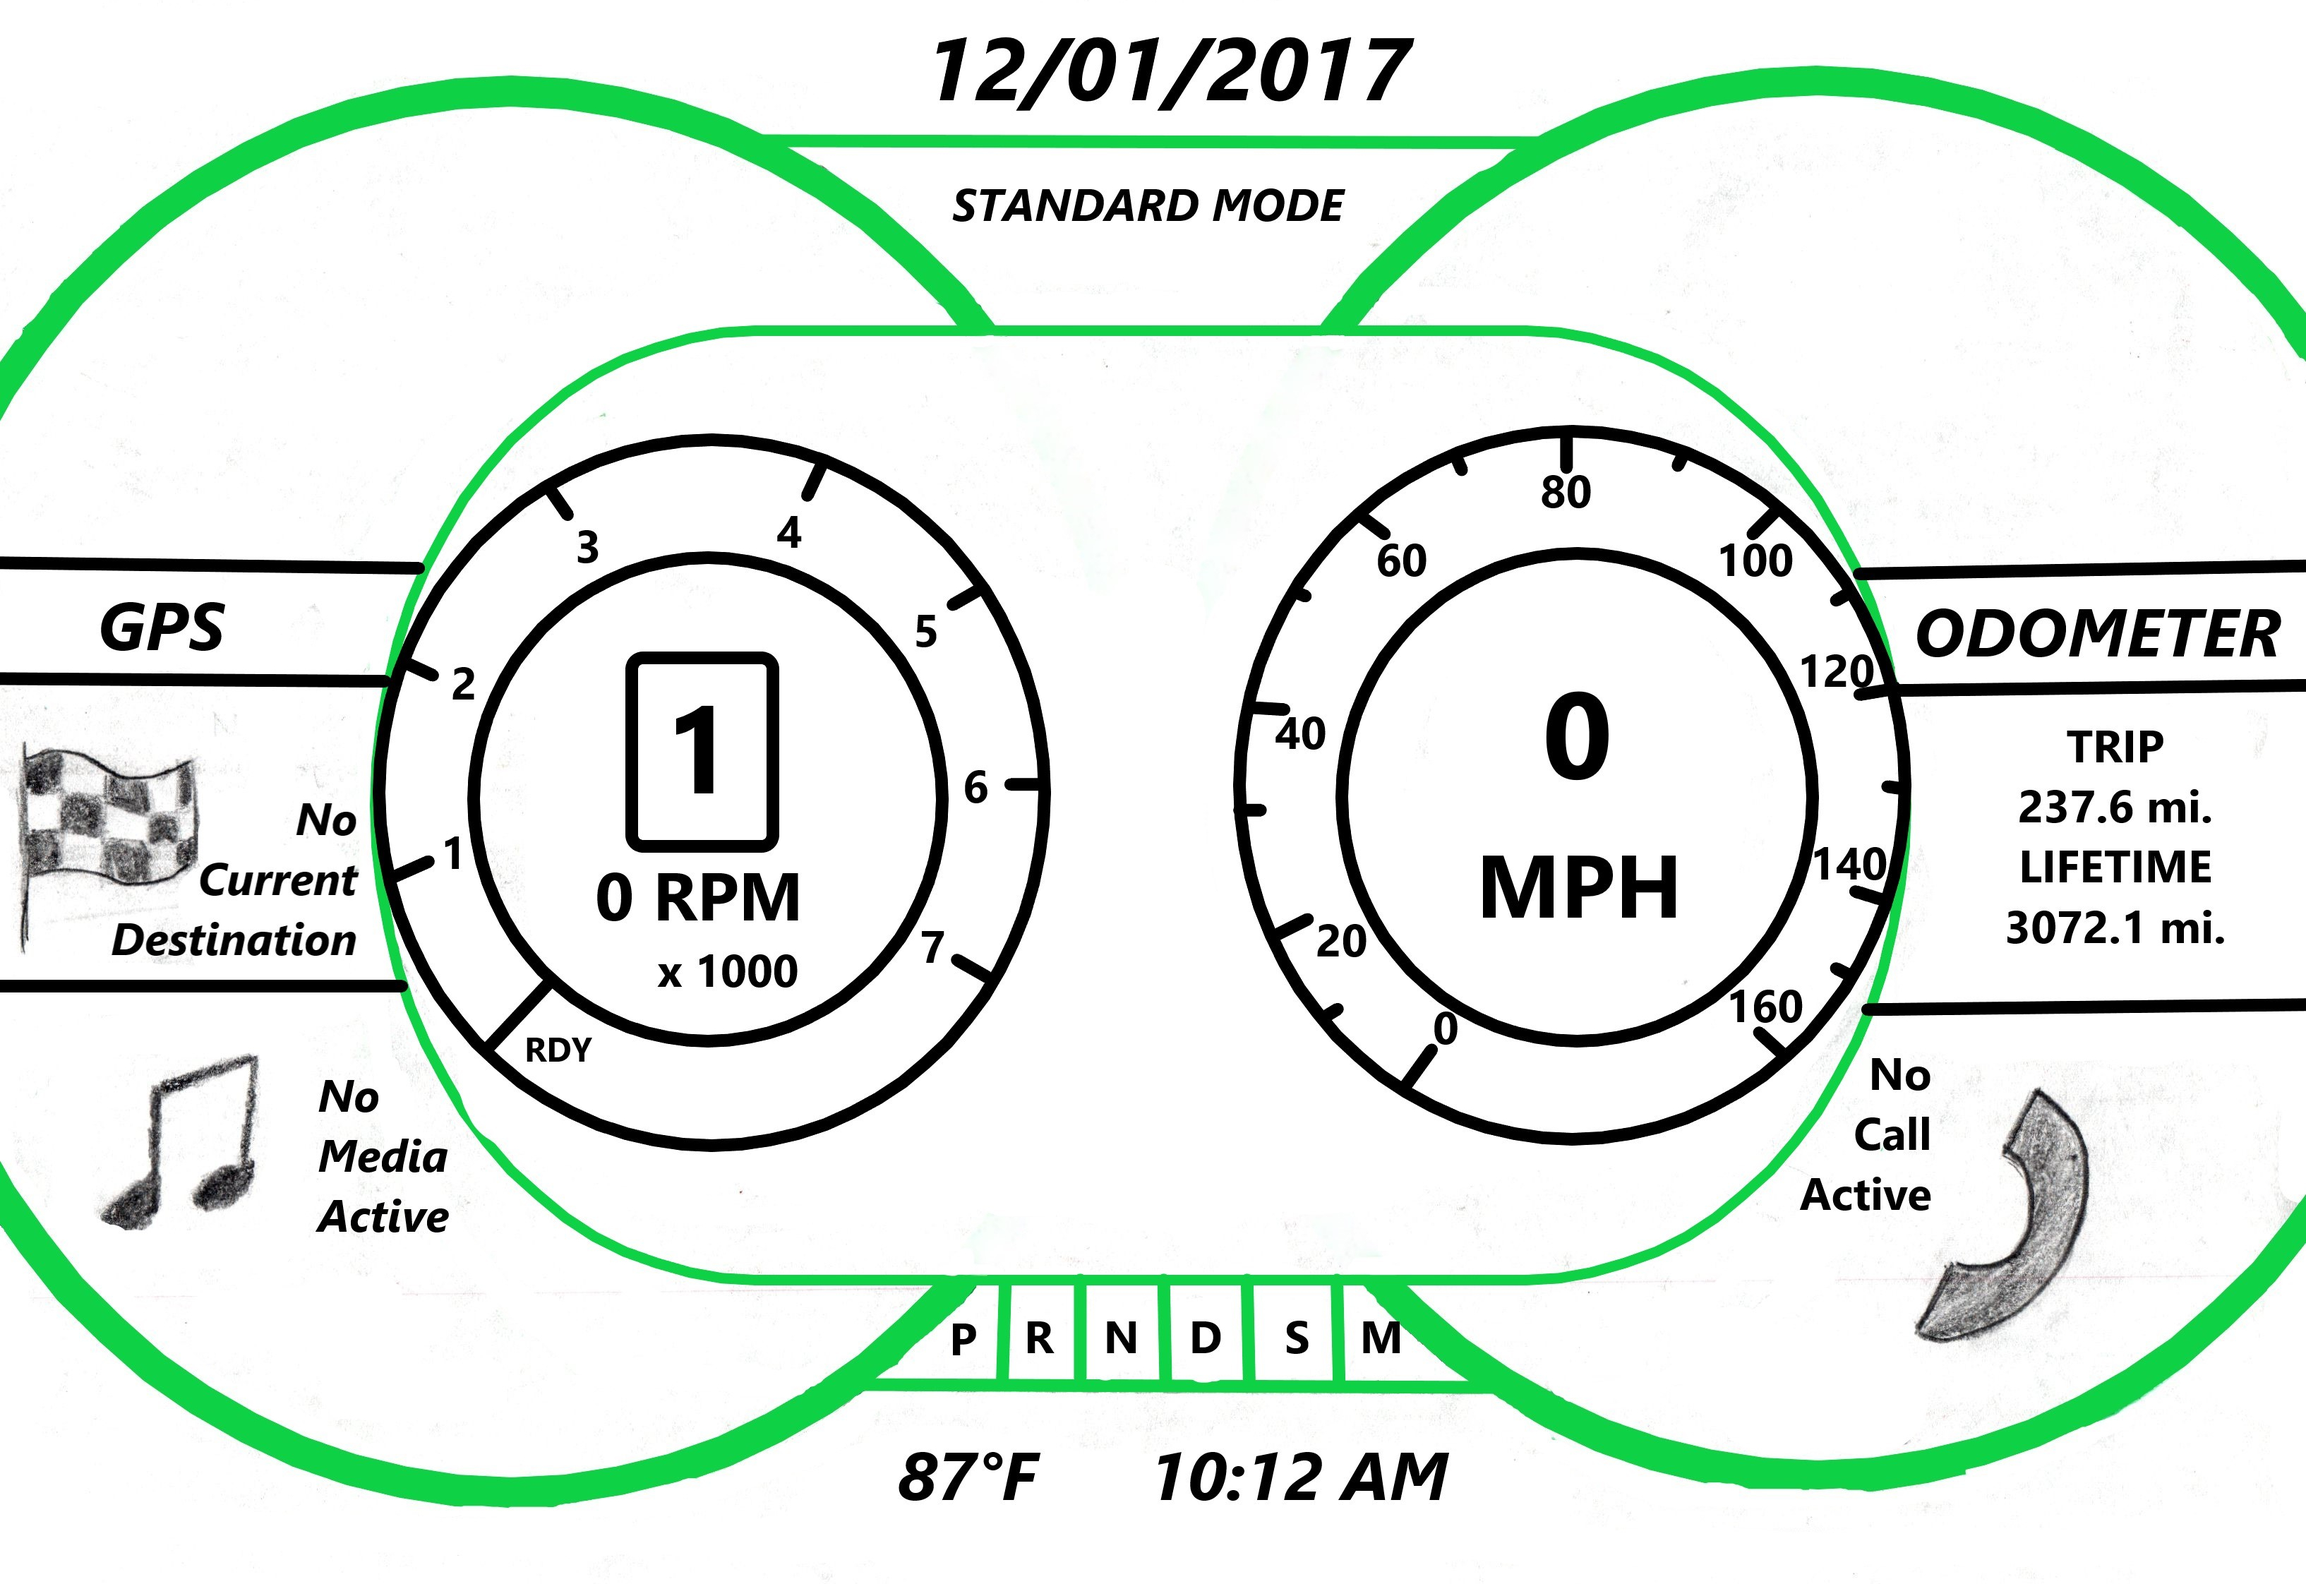
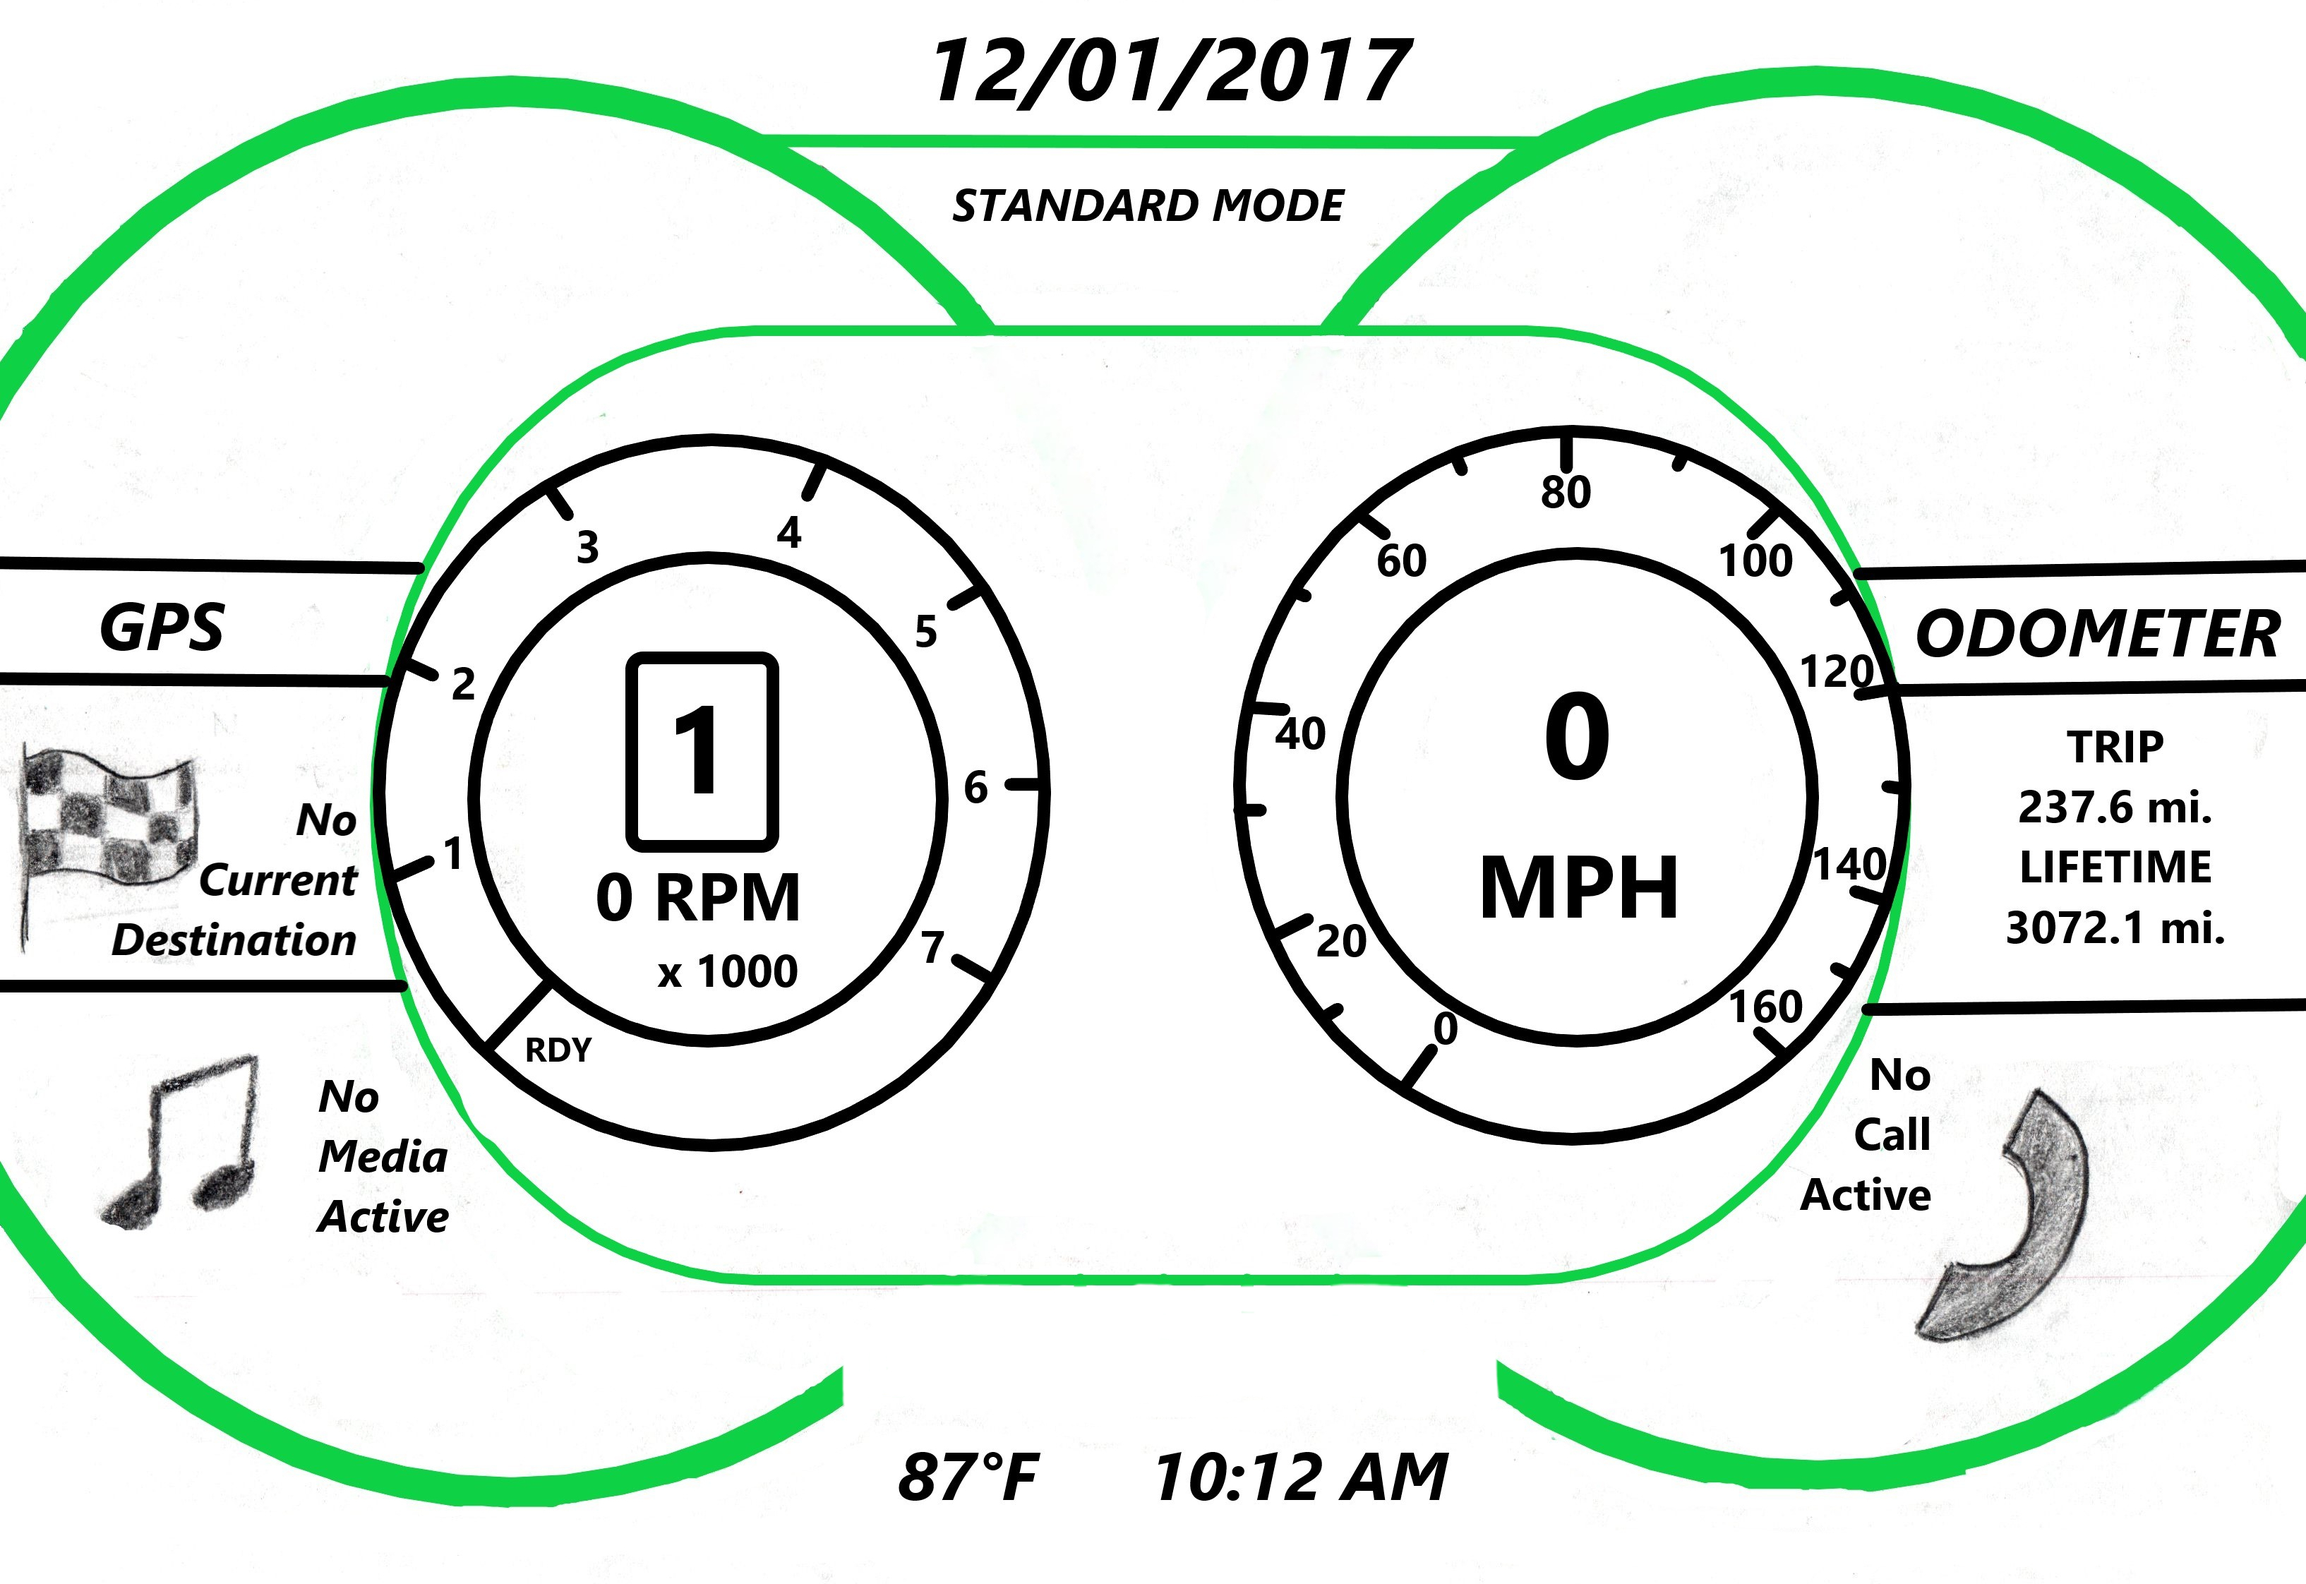
WIP gear shifting

Changed region(s): [[0.3434, 0.8111, 0.6556, 0.9046]]

diff --git a/public/index.html b/public/index.html
@@ -16,13 +16,27 @@
       <img class="caution-image off-image" src="images/cautionOFF.png"></img>
       <img class="caution-image on-image" src="images/cautionON.png" hidden></img>
     </div>
-      <p class="error-message">No errors.</p>
+    <div>
+      <p class="error-message"></p>
     </div>
   </div>
   
   <div class="mode-image-wrapper">
     <img class="mode-image standard centered" src="images/standard.jpg"></img>
     <img class="mode-image travel centered" src="images/travel.jpg" hidden></img>
+  </div>
+
+  <div class="gear-table-wrapper">
+    <table class="gear-table" border="1">
+      <tr>
+        <td>P</td>
+        <td>R</td>
+        <td>N</td>
+        <td>D</td>
+        <td>S</td>
+        <td>M</td>
+      </tr>
+    </table>
   </div>
   
 </body>

diff --git a/public/javascripts/errormessage.js b/public/javascripts/errormessage.js
@@ -3,7 +3,7 @@ $( function () {
   var errorDisplayed = false;
   var errorMessages = ["Tire Pressure Low","Dead Battery","Gas Cap Issues","Starter Issues"];
   var min = 0, max = 3;
-  var errorInterval = 5000;
+  var errorInterval = 10000;
 
   window.setInterval( function() {
     if( errorDisplayed == false ) {
@@ -23,8 +23,7 @@ $( function () {
         $(".off-image").show("slow", function() {});
         $(".on-image").hide("slow", function() {});
         errorDisplayed = false;
-        $(".error-message").html("No errors.");
-        setInterval(errorInterval);
+        $(".error-message").html("");
       }
     });
 

diff --git a/public/stylesheets/style.css b/public/stylesheets/style.css
@@ -5,6 +5,7 @@ body {
 }
 
 .mode-image {
+  z-index: 1;
   width: 57%;
 }
 
@@ -31,4 +32,24 @@ body {
   display: flex;
   justify-content: center;
   align-items: center;
+}
+
+.gear-table-wrapper {
+  position: absolute;
+  left: 837px;
+  top: 718px;
+  z-index: 2;
+}
+.gear-table {
+  font-size: 22pt;
+  color: black;
+  border-style: solid;
+  border-color: black;
+}
+
+td {
+  padding-left: 9px;
+  padding-right: 9px;
+  padding-top: 1px;
+  padding-bottom: 1px;
 }
